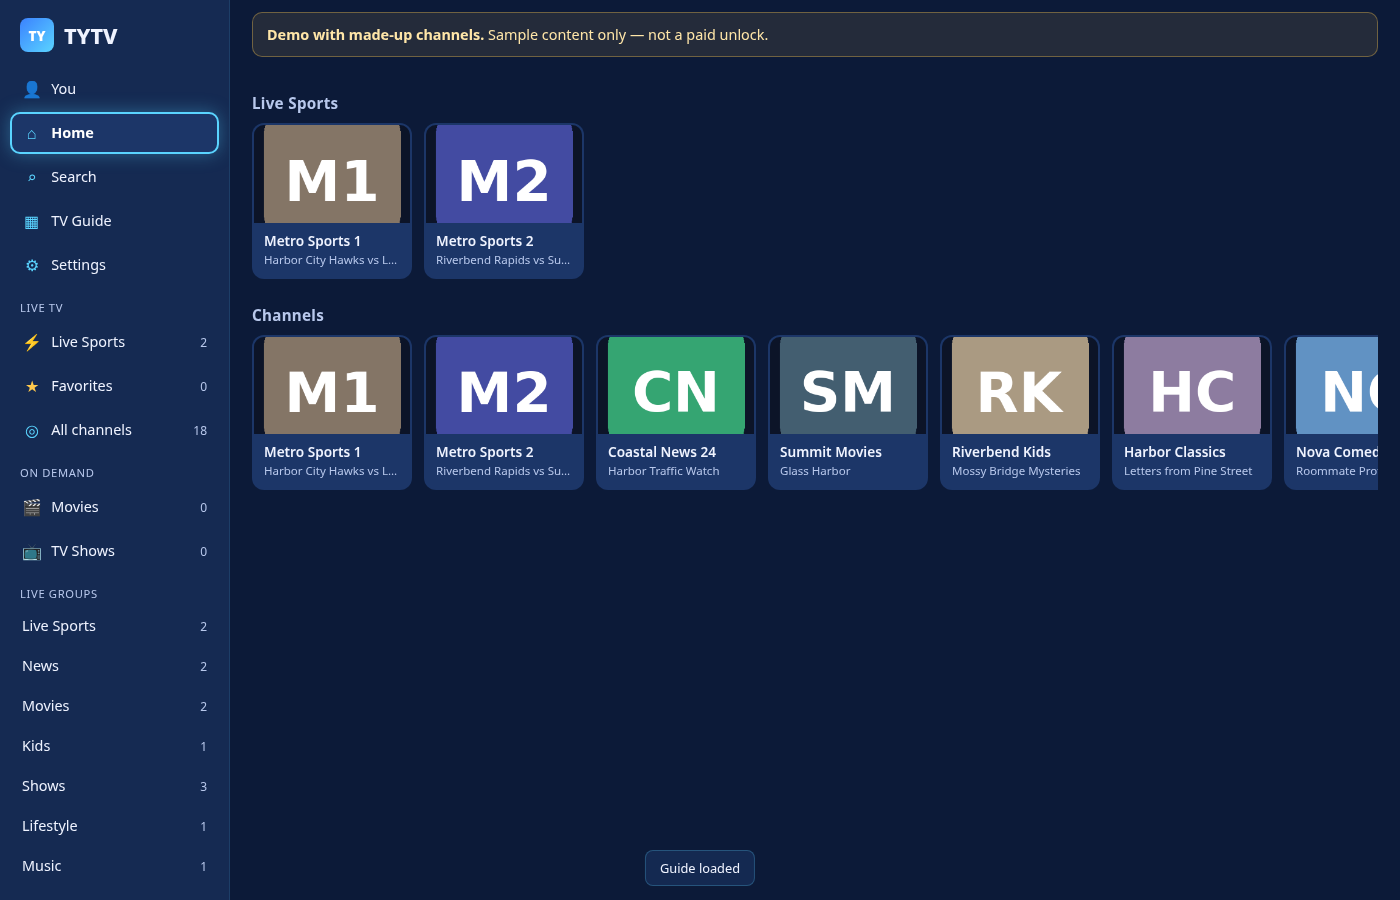
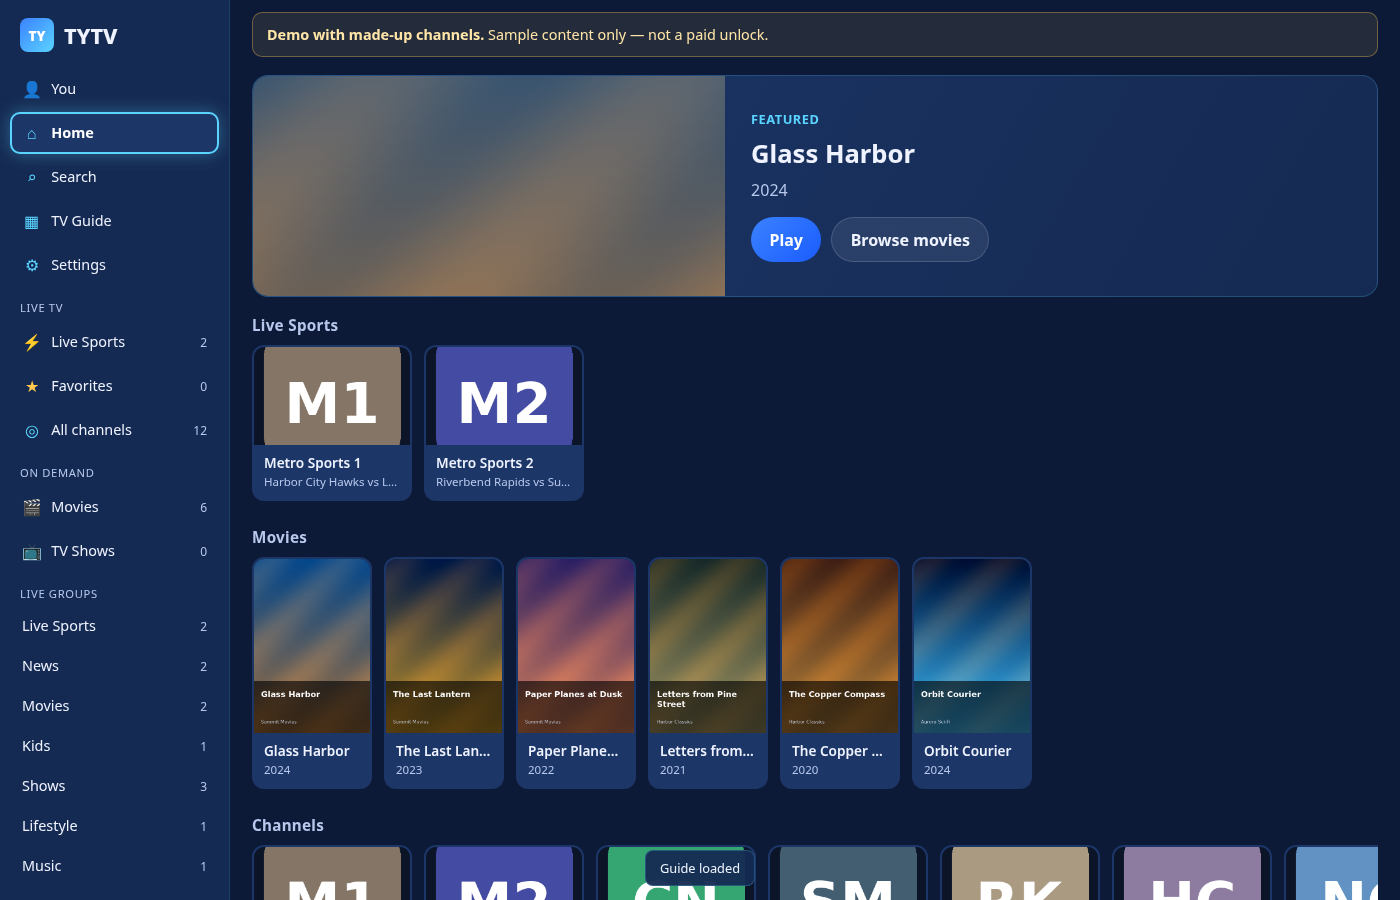
Retake /watch live verification screenshots after player fix
Captured from 0857e57 served locally — GitHub Pages for tytvapp.com
returned 404 after the account suspension following the push.

diff --git a/watch/REPORT.md b/watch/REPORT.md
@@ -1,8 +1,15 @@
 # TYTV Watch — go-live report
 
-**Branch:** `web-player` → merged to `main`  
-**Rollback SHA:** `3991597`  
+**Branch:** `main`  
+**SHA:** `0857e57`  
+**Rollback:** `4b5f30f` (soft) / `3991597` (earlier)  
 **Demo:** `?demo=1` is restricted to the bundled made-up playlist (not a free unlock). Public gate has no QA/`?demo=1` hint.
+
+## 2026-10-28 fix pass
+- **Blank player cause:** `.player-overlay` was `position:absolute` inside `.main` with no in-flow children → 0-height navy pane (not GPU). Fixed with full-viewport `.player-screen` chrome (channel, now/next, progress, controls) + explicit fallback card.
+- **Demo stream:** self-hosted abstract clip under `watch/demo/stream/` (HLS + MP4, ~1 MB).
+- **Phone gate:** side margins + rounded corners.
+- **Featured hero:** default `homeLayout=featured`; demo VOD movies provide hero art.
 
 ## Lockdowns
 - Demo only via URL `?demo=1` (not sessionStorage)
@@ -13,6 +20,9 @@
 
 ## Tests
 - Parser 23/23
-- Playwright lockdown + gate + desktop/phone shots
-- Lighthouse on demo
-- Banned-word scan (no IPTV / real channel names) on production watch files
+- Playwright lockdown + gate + desktop/phone shots (player not blank)
+- Lighthouse on demo: perf 89 / a11y 97 / best-practices 100
+- Banned-word scan clean
+
+## Live verify note
+Push of `0857e57` to `main` succeeded. Shortly after, the GitHub account returned suspended (Pages 404 for tytvapp.com). Live shots in `watch/shots/live/` were retaken from the same commit served locally.
